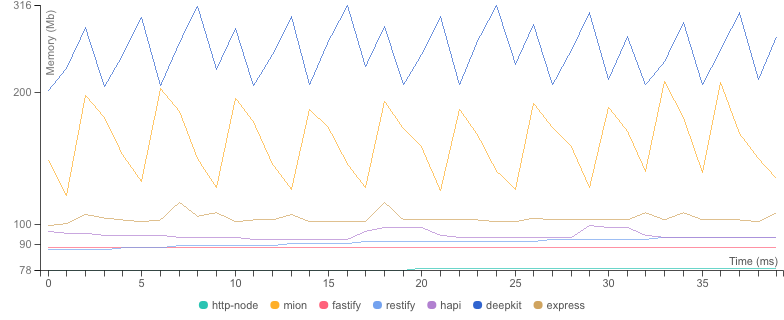
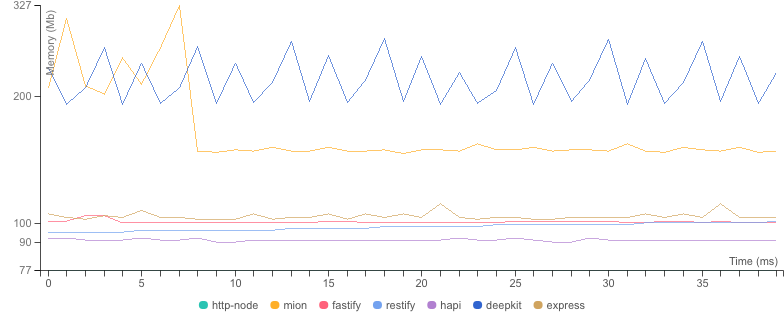
fix a bug were mion and deepkit libraries got imported together so memory of both libraries were displaying more meory usage than required add mion-no-reflection test

diff --git a/benchmarks/mion-no-reflection.js b/benchmarks/mion-no-reflection.js
@@ -1,0 +1,68 @@
+"use strict";
+
+const { initHttp, addRoutes } = require("../_compiled-apps/apps/src/mionApp");
+const { startHttpServer } = require("@mionkit/http");
+const { RouteError } = require("@mionkit/router");
+
+// ##### Using mion without reflection completely disables the runtime type checking
+// ##### so there is no need to use built typescript
+
+// ##### user type
+// interface User {
+//   id: number;
+//   name: string;
+//   surname: string;
+//   lastUpdate: Date;
+// }
+
+// ##### validation / deserialization : USING MANUAL Validation, the framework might support something else ############
+// const hasUnknownKeys = (knownKeys, input) => {
+//   if (typeof input !== "object") return true;
+//   const unknownKeys = Object.keys(input);
+//   return unknownKeys.some((ukn) => !knownKeys.includes(ukn));
+// };
+
+// before serialize
+const isUser = (input) => {
+  if (typeof input !== "object") return false;
+  //   if (hasUnknownKeys(["id", "name", "surname", "lastUpdate"], input))
+  //     return false;
+  return (
+    typeof input?.id === "number" &&
+    typeof input?.name === "string" &&
+    typeof input?.surname === "string" &&
+    typeof input?.lastUpdate === "string"
+  );
+};
+
+const deserializeUser = (jsonParseResult) => {
+  if (typeof jsonParseResult?.lastUpdate === "string")
+    return {
+      ...jsonParseResult,
+      lastUpdate: new Date(jsonParseResult.lastUpdate),
+    };
+  return jsonParseResult;
+};
+
+const mionSayHelloRoute = () => ({ hello: "world" });
+const updateUser = (context, rawUser) => {
+  if (!isUser(rawUser)) {
+    return new RouteError({
+      statusCode: 400,
+      publicMessage: "invalid parameter, not a user",
+    });
+  }
+  const user = deserializeUser(rawUser); // we would need to deserialize to be able to use date etc
+  user.lastUpdate.setMonth(user.lastUpdate.getMonth() + 1);
+  return user;
+};
+
+const routes = {
+  "/": mionSayHelloRoute,
+  updateUser,
+};
+
+initHttp({ disableAllReflection: true });
+addRoutes(routes);
+
+startHttpServer({ port: 3000 });

diff --git a/lib/packages-mion-options.js b/lib/packages-mion-options.js
@@ -12,7 +12,7 @@ const packages = {
   mion: {
     checked: true,
     hasRouter: true,
-    package: "@MionKit/compiled-app",
+    package: "@mionkit/compiled-app",
     validation: "✓",
     version: "0.1.0",
     description:
@@ -20,7 +20,7 @@ const packages = {
   },
   "mion-async-context": {
     hasRouter: true,
-    package: "@MionKit/compiled-app",
+    package: "@mionkit/compiled-app",
     validation: "✓",
     version: "0.1.0",
     description:
@@ -28,7 +28,7 @@ const packages = {
   },
   "mion-callbacks": {
     hasRouter: true,
-    package: "@MionKit/compiled-app",
+    package: "@mionkit/compiled-app",
     validation: "✓",
     version: "0.1.0",
     description:
@@ -36,7 +36,7 @@ const packages = {
   },
   "mion-async-context-callbacks": {
     hasRouter: true,
-    package: "@MionKit/compiled-app",
+    package: "@mionkit/compiled-app",
     validation: "✓",
     version: "0.1.0",
     description:
@@ -44,11 +44,19 @@ const packages = {
   },
   mion3000: {
     hasRouter: true,
-    package: "@MionKit/compiled-app",
+    package: "@mionkit/compiled-app",
     validation: "✓",
     version: "0.1.0",
     description:
       "mion with 3000 routes loaded (should have the most memory usage)",
+  },
+  "mion-no-reflection": {
+    hasRouter: true,
+    package: "@mionkit/compiled-app",
+    validation: "✓",
+    version: "0.1.0",
+    description:
+      "using mion http with disableAllReflection = true, so can be used directly from javascript",
   },
 };
 

diff --git a/_compiled-apps/apps/src/mionApp.js b/_compiled-apps/apps/src/mionApp.js
@@ -24,7 +24,8 @@ const __ΩShared = [() => SharedArrayBuffer, 'i!'];
 exports.__ΩShared = __ΩShared;
 exports.mionSayHelloRoute = __assignType(() => ({ hello: "world" }), [() => __ΩSayHello, '', 'Pn!/"']);
 exports.updateUser = __assignType((context, user) => {
-    return Object.assign(Object.assign({}, user), { lastUpdate: new Date() });
+    user.lastUpdate.setMonth(user.lastUpdate.getMonth() + 1);
+    return user;
 }, ['context', () => __ΩUser, 'user', () => __ΩUser, '', 'P"2!n"2#n$/%']);
 exports.updateUserNoAppOrContext = __assignType((user) => __awaiter(void 0, void 0, void 0, function* () {
     user.lastUpdate.setMonth(user.lastUpdate.getMonth() + 1);

diff --git a/benchmarks/mion-async-context.js b/benchmarks/mion-async-context.js
@@ -4,13 +4,13 @@ const {
   initHttp,
   addRoutes,
   routesWithAsyncCallContext,
-} = require("../_compiled-apps/apps");
+} = require("../_compiled-apps/apps/src/mionApp");
 const { startHttpServer } = require("@mionkit/http");
 
 // ###### check the apps/ directory for the original non compiled code
 // mion needs to be compiled from typescript to be able to generate runtime types metadata
 
-initHttp({useAsyncCallContext: true});
+initHttp({ useAsyncCallContext: true });
 addRoutes(routesWithAsyncCallContext);
 
 startHttpServer({ port: 3000 });

diff --git a/_compiled-apps/apps/src/mionApp.d.ts b/_compiled-apps/apps/src/mionApp.d.ts
@@ -10,7 +10,7 @@ export declare const logAsyncCallContext: (name: string) => {
 };
 export declare const routes: Routes;
 export declare const routesWithAsyncCallContext: Routes;
-export declare const initHttp: (options?: Partial<RouterOptions>) => void;
+export declare const initHttp: (options?: Partial<RouterOptions>) => Promise<void>;
 export { registerRoutes as addRoutes } from "@mionkit/router";
 export declare type __ΩShared = any[];
 //# sourceMappingURL=mionApp.d.ts.map

diff --git a/apps/src/mionApp.ts b/apps/src/mionApp.ts
@@ -19,10 +19,8 @@ export type Shared = typeof SharedArrayBuffer;
 
 export const mionSayHelloRoute: Route = (): SayHello => ({ hello: "world" });
 export const updateUser: Route = (context, user: User): User => {
-  return {
-    ...user,
-    lastUpdate: new Date(),
-  };
+  user.lastUpdate.setMonth(user.lastUpdate.getMonth() + 1);
+  return user;
 };
 
 export const updateUserNoAppOrContext = async (user: User): Promise<User> => {

diff --git a/benchmark-compare.js b/benchmark-compare.js
@@ -79,7 +79,7 @@ async function runCompare() {
     // memory series only available for mion benchmark
     const memSeriesToDisplay =
       options.benchmark === "mion"
-        ? ["mion", "mion3000", "http-node"]
+        ? ["mion", "mion3000", "http-node", "mion-no-reflection"]
         : outputResults.map((result) => result.name);
     const memSeriesChartImages = await getMarkdownChartMemSeries(
       outputResults,

diff --git a/benchmarks/deepkit.js b/benchmarks/deepkit.js
@@ -1,6 +1,9 @@
 "use strict";
 
-const { initDeepkitApp, setRoutes } = require("../_compiled-apps/apps");
+const {
+  initDeepkitApp,
+  setRoutes,
+} = require("../_compiled-apps/apps/src/deepkitApp");
 
 // ###### check the apps/ directory for the original non compiled code
 // deepkit needs to be compiled from typescript to be able to generate runtime types metadata

diff --git a/benchmarks/mion-callbacks.js b/benchmarks/mion-callbacks.js
@@ -1,7 +1,11 @@
 "use strict";
 
 const { use } = require("h3");
-const { initHttp, addRoutes, routes } = require("../_compiled-apps/apps");
+const {
+  initHttp,
+  addRoutes,
+  routes,
+} = require("../_compiled-apps/apps/src/mionApp");
 const { startHttpServer } = require("@mionkit/http");
 
 // ###### check the apps/ directory for the original non compiled code

diff --git a/benchmarks/mion.js b/benchmarks/mion.js
@@ -1,6 +1,10 @@
 "use strict";
 
-const { initHttp, addRoutes, routes } = require("../_compiled-apps/apps");
+const {
+  initHttp,
+  addRoutes,
+  routes,
+} = require("../_compiled-apps/apps/src/mionApp");
 const { startHttpServer } = require("@mionkit/http");
 
 // ###### check the apps/ directory for the original non compiled code

diff --git a/benchmarks/mion3000.js b/benchmarks/mion3000.js
@@ -1,6 +1,10 @@
 "use strict";
 
-const { initHttp, addRoutes, routes } = require("../_compiled-apps/apps");
+const {
+  initHttp,
+  addRoutes,
+  routes,
+} = require("../_compiled-apps/apps/src/mionApp");
 const { startHttpServer } = require("@mionkit/http");
 
 // ###### check the apps/ directory for the original non compiled code

diff --git a/metrics/startup-mion-routes.js b/metrics/startup-mion-routes.js
@@ -1,6 +1,10 @@
 const start = process.hrtime();
 
-const { initHttp, addRoutes, routes } = require("../_compiled-apps/apps");
+const {
+  initHttp,
+  addRoutes,
+  routes,
+} = require("../_compiled-apps/apps/src/mionApp");
 const { startHttpServer } = require("@mionkit/http");
 
 const totalRoutes = process.env.routes || 0;
